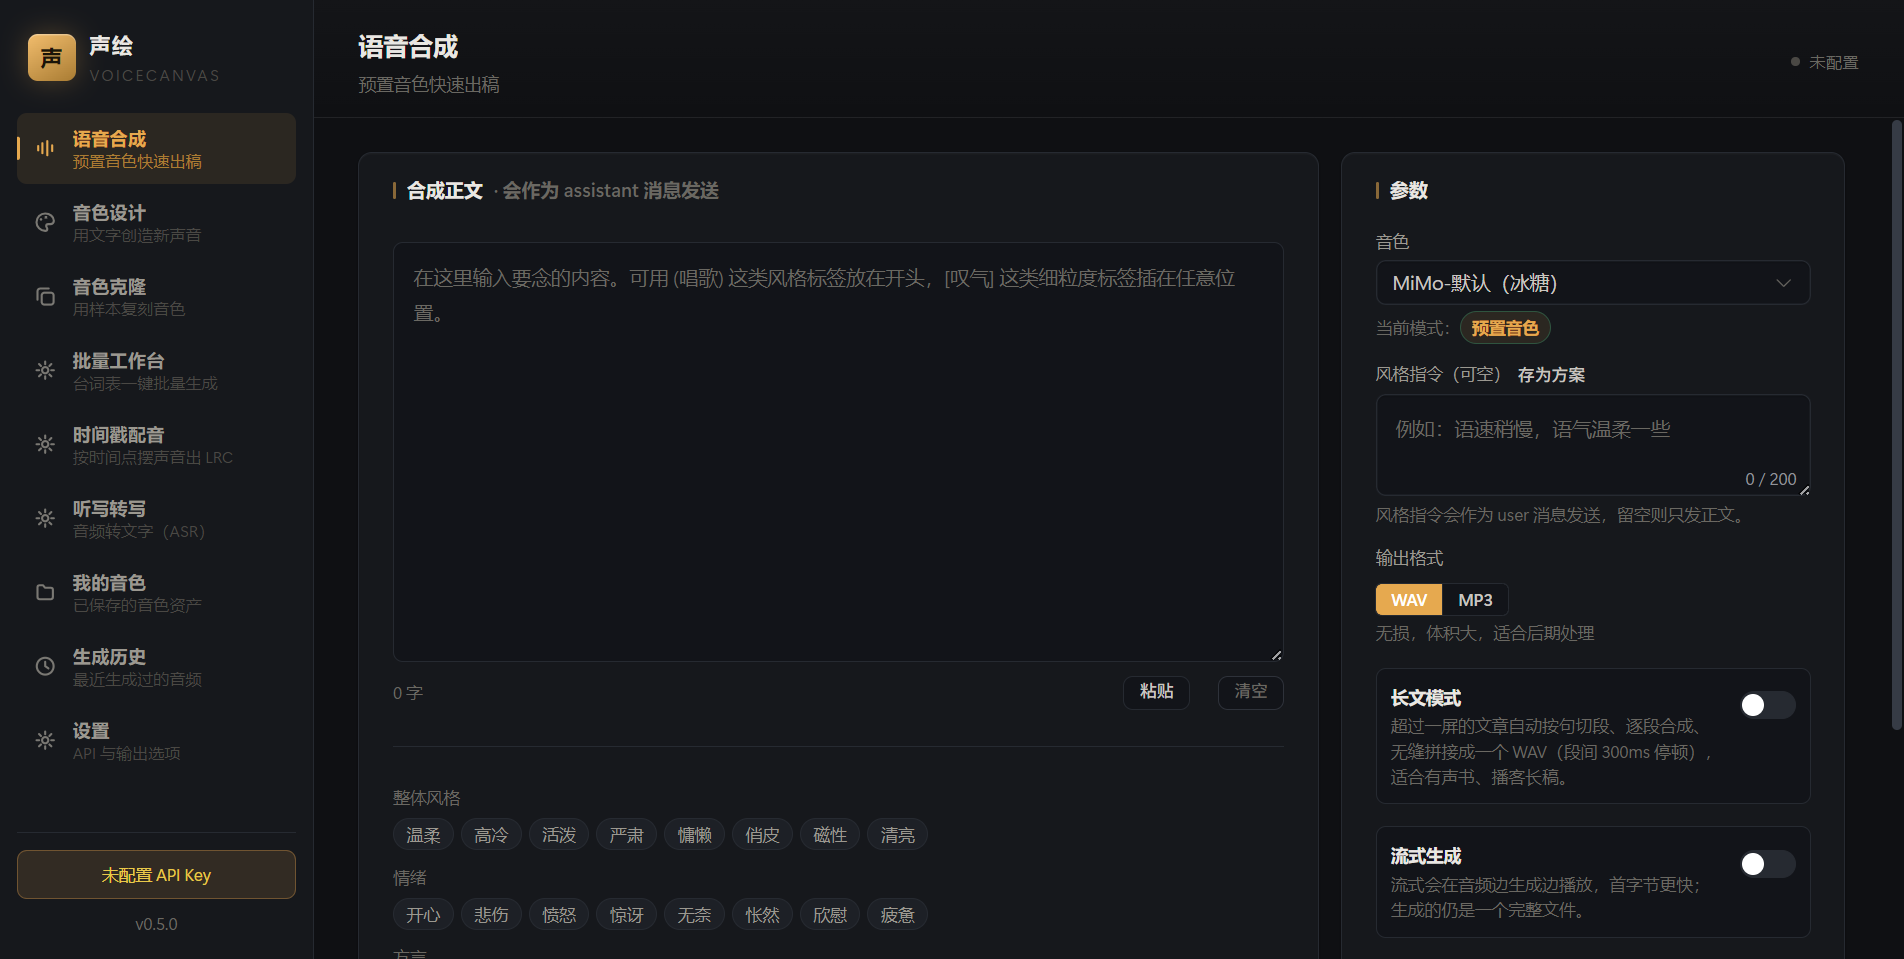
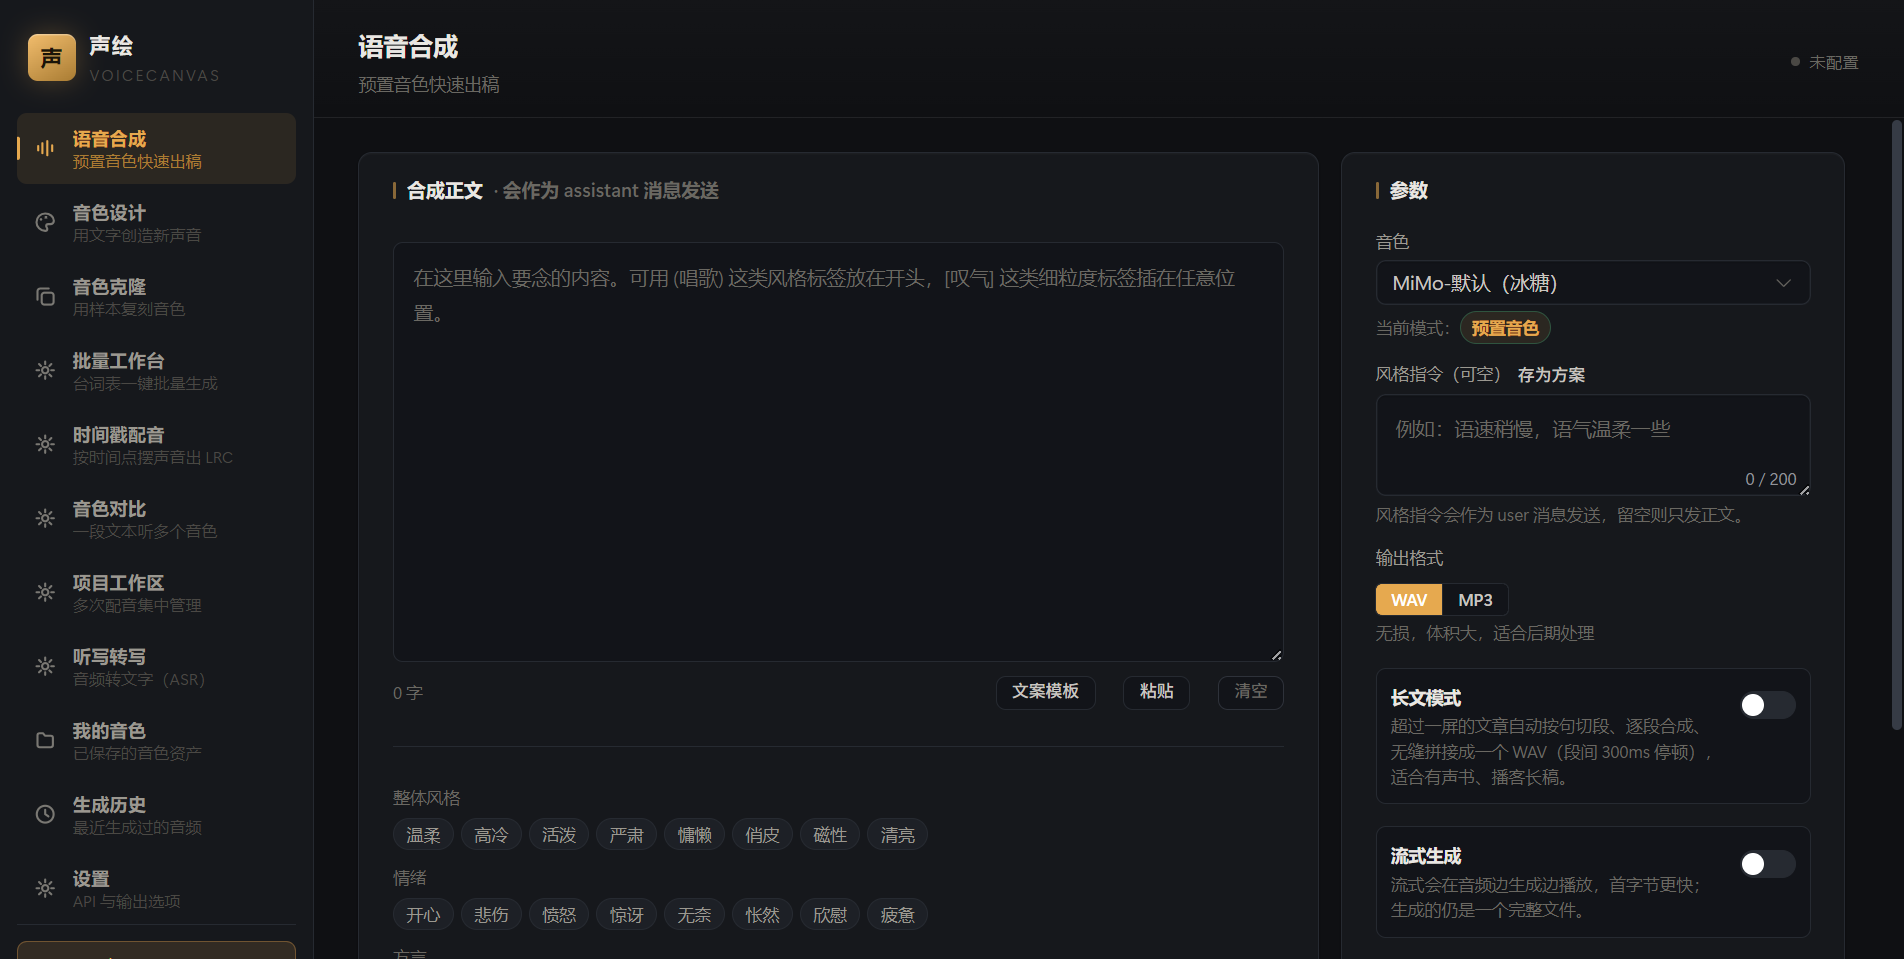
feat: 场景文案模板库（17 套，8 类场景）
与声音模板互补：声音模板解决'用什么声音'，文案模板解决'说什么'
- 覆盖广告/有声书/播客/短视频/通知/游戏/教育/情感 8 类场景
- 每条含可直接使用的文案（带风格标签）、用途说明、建议音色
- 合成页「文案模板」按钮打开，按场景分类点选即填入

diff --git a/src/shared/scripts.ts b/src/shared/scripts.ts
@@ -1,0 +1,192 @@
+/**
+ * 场景文案模板库
+ *
+ * 与「声音模板」互补：声音模板解决"用什么声音"，文案模板解决"说什么"。
+ * 每条给的是一段可以直接拿去生成的示例文本，带风格标签。
+ */
+
+export interface ScriptTemplate {
+  id: string
+  name: string
+  /** 所属场景 */
+  scene: '广告' | '有声书' | '播客' | '短视频' | '通知' | '游戏' | '教育' | '情感'
+  /** 一句话用途说明 */
+  usage: string
+  /** 可直接使用的文案（含风格标签） */
+  text: string
+  /** 建议搭配的声音风格 */
+  voiceHint: string
+}
+
+export const SCRIPT_TEMPLATES: ScriptTemplate[] = [
+  // ===== 广告 =====
+  {
+    id: 'ad-energetic',
+    name: '新品发布·热血版',
+    scene: '广告',
+    usage: '新品上市的短促有力口播',
+    text: '(兴奋 语速加快)全新一代来了！更强性能，更轻机身，续航提升百分之四十。这一次，不用再妥协。现在就下单，首发立减三百！',
+    voiceHint: '明亮有活力的青年声，语速快',
+  },
+  {
+    id: 'ad-warm',
+    name: '品牌温度·走心版',
+    scene: '广告',
+    usage: '需要情感共鸣的品牌短片',
+    text: '(温柔)有些陪伴，从来不说出口。它在清晨的一杯热水里，在深夜留的一盏灯里。二十年了，我们只做一件事——把日子过得像家。',
+    voiceHint: '温暖厚实的中年声，语速慢',
+  },
+  {
+    id: 'ad-premium',
+    name: '高端质感·克制版',
+    scene: '广告',
+    usage: '奢侈品/高端产品，靠留白和停顿',
+    text: '(深沉 语速极慢)时间，从不辜负认真的人。[停顿]每一道纹路，都是数十次打磨的结果。它不喧哗。它只是，在那里。',
+    voiceHint: '低沉磁性的男声，气声足',
+  },
+
+  // ===== 有声书 =====
+  {
+    id: 'book-narrative',
+    name: '小说叙事·第三人称',
+    scene: '有声书',
+    usage: '小说正文的常规叙述段落',
+    text: '那年的雪下得格外早。人还没备好过冬的柴，天就先冷了下来。[停顿]他站在门口，看着院子里那棵老槐树，忽然觉得有什么东西，再也回不去了。',
+    voiceHint: '沉稳的叙事男声或女声，节奏平稳',
+  },
+  {
+    id: 'book-dialogue',
+    name: '对话·双角色切换',
+    scene: '有声书',
+    usage: '一段对白，靠语气区分角色',
+    text: '(低沉 压着怒意)你到底想说什么？[停顿](轻笑 轻蔑)我没什么想说的。我只是想看看，你还能撑多久。',
+    voiceHint: '能演出情绪落差的声线',
+  },
+  {
+    id: 'book-suspense',
+    name: '悬疑·压抑逼近',
+    scene: '有声书',
+    usage: '恐怖/悬疑的紧张段落',
+    text: '(压低声线 气声)走廊尽头的灯，又灭了。[停顿]他数着自己的心跳，一步，两步……(颤抖)门把手，动了。',
+    voiceHint: '低音、气声重、有明显停顿',
+  },
+
+  // ===== 播客 =====
+  {
+    id: 'podcast-intro',
+    name: '播客开场白',
+    scene: '播客',
+    usage: '每期固定的节目开场',
+    text: '(轻松 带笑)欢迎回到《慢慢说》。今天我们不聊大道理，就聊聊那些说出来有点矫情、但憋在心里又难受的小事。泡杯茶，我们开始吧。',
+    voiceHint: '亲切自然的主播声',
+  },
+  {
+    id: 'podcast-transition',
+    name: '段落过渡',
+    scene: '播客',
+    usage: '话题切换时的自然衔接',
+    text: '(放缓 略沉吟)说到这儿，我想起另一件事。[停顿]这件事跟刚才那个看似没关系，但其实是同一个问题的两面。',
+    voiceHint: '语速中等，有思考感',
+  },
+
+  // ===== 短视频 =====
+  {
+    id: 'short-hook',
+    name: '三秒钩子',
+    scene: '短视频',
+    usage: '开头抓住注意力的强钩子',
+    text: '(语速极快 上扬)别再这样充电了！你手机电池就是这么被充坏的，九十秒讲清楚，看完记得存下来。',
+    voiceHint: '高能量、语速快、咬字清',
+  },
+  {
+    id: 'short-explainer',
+    name: '知识科普',
+    scene: '短视频',
+    usage: '中等语速的讲解',
+    text: '(平静 清晰)为什么冰块放进热水，裂开的声音不一样？[停顿]答案藏在热胀冷缩的细节里。我们分三步看。',
+    voiceHint: '清晰平稳的讲解声',
+  },
+
+  // ===== 通知 =====
+  {
+    id: 'notice-station',
+    name: '车站/机场广播',
+    scene: '通知',
+    usage: '公共场所播报',
+    text: '(标准 平稳)各位旅客请注意，开往上海虹桥方向的G7126次列车，现在开始检票。请携带好随身物品，从三号检票口有序进站。',
+    voiceHint: '标准播音腔，音量适中',
+  },
+  {
+    id: 'notice-app',
+    name: 'App 语音提示',
+    scene: '通知',
+    usage: '产品内的语音反馈',
+    text: '(轻快 简短)已为你规划好路线，全程十二公里，预计需要二十五分钟。祝你一路顺利。',
+    voiceHint: '清晰友好的中性声',
+  },
+
+  // ===== 游戏 =====
+  {
+    id: 'game-npc',
+    name: 'NPC 任务引导',
+    scene: '游戏',
+    usage: '游戏内的任务对话',
+    text: '(苍老 缓慢)年轻人，你终于来了。[停顿]北边的森林最近不太平，村民们已经三天不敢出门。若你愿意去看看，我这儿有些东西，或许用得上。',
+    voiceHint: '沧桑长者声',
+  },
+  {
+    id: 'game-boss',
+    name: 'Boss 登场台词',
+    scene: '游戏',
+    usage: '强力敌人的登场宣言',
+    text: '(低沉 压迫 回声感)你走到了这里，很好。[停顿]可惜，到此为止了。(冷笑)让我看看，你能撑过几个回合。',
+    voiceHint: '低音、有威压感',
+  },
+
+  // ===== 教育 =====
+  {
+    id: 'edu-lesson',
+    name: '课程讲解',
+    scene: '教育',
+    usage: '知识点讲解的语速示范',
+    text: '(清晰 适中)我们先看第一个概念。[停顿]这里容易混淆的地方在于，它和表面看起来的意思，恰恰相反。给大家举个例子。',
+    voiceHint: '清晰、有条理、语速中',
+  },
+  {
+    id: 'edu-encourage',
+    name: '学习鼓励',
+    scene: '教育',
+    usage: '给学生的正向反馈',
+    text: '(温和 带笑)这道题你自己做出来了，很棒。[停顿]注意看你第二步的思路，那个转折点，就是你真正理解的地方。',
+    voiceHint: '温暖鼓励的语气',
+  },
+
+  // ===== 情感 =====
+  {
+    id: 'emo-night',
+    name: '晚安电台',
+    scene: '情感',
+    usage: '睡前陪伴类内容',
+    text: '(极温柔 语速极慢)今天的你，辛苦了。[停顿]不用急着总结今天做得够不够好。此刻你只需要，把手机放下，闭上眼睛。明天的事，留给明天的你。',
+    voiceHint: '低柔、气声、语速极慢',
+  },
+  {
+    id: 'emo-letter',
+    name: '书信独白',
+    scene: '情感',
+    usage: '第一人称的信件朗读',
+    text: '(平静 略克制)见字如面。[停顿]写信这件事，我搁置了很久。不是没话说，是话太多，反而不知道从哪句开始。那就，从一句谢谢开始吧。',
+    voiceHint: '内敛克制、有呼吸感',
+  },
+]
+
+export function groupScripts(): Array<{ scene: string; items: ScriptTemplate[] }> {
+  const order = ['广告', '有声书', '播客', '短视频', '通知', '游戏', '教育', '情感']
+  const map = new Map<string, ScriptTemplate[]>()
+  for (const s of SCRIPT_TEMPLATES) {
+    const list = map.get(s.scene) || []
+    list.push(s)
+    map.set(s.scene, list)
+  }
+  return order.filter((s) => map.has(s)).map((s) => ({ scene: s, items: map.get(s)! }))
+}

diff --git a/src/renderer/src/views/SynthView.vue b/src/renderer/src/views/SynthView.vue
@@ -18,6 +18,7 @@ import { formatBytes } from '../composables/usePlayer'
 import AudioPlayer from '../components/AudioPlayer.vue'
 import AudioTagPanel from '../components/AudioTagPanel.vue'
 import { useShortcuts } from '../composables/useShortcuts'
+import { SCRIPT_TEMPLATES, groupScripts } from '../../../shared/scripts'
 
 const emit = defineEmits<{ (e: 'need-key'): void }>()
 
@@ -429,6 +430,20 @@ useShortcuts([
   },
 ])
 
+// ---------- 文案模板 ----------
+const scriptOpen = ref(false)
+const scriptGroups = groupScripts()
+const scriptScene = ref<string>(scriptGroups[0]?.scene ?? '广告')
+const scriptsOfScene = computed(
+  () => scriptGroups.find((g) => g.scene === scriptScene.value)?.items ?? [],
+)
+
+function applyScript(s: (typeof SCRIPT_TEMPLATES)[number]) {
+  text.value = s.text
+  scriptOpen.value = false
+  ElMessage.success(`已填入「${s.name}」，建议搭配：${s.voiceHint}`)
+}
+
 async function loadAssets(): Promise<void> {
   try {
     assets.value = await window.vc.voices.list()
@@ -480,6 +495,7 @@ function applyPendingVoice(): void {
             <template v-if="charCount > 0">· 约 {{ estSeconds }} 秒音频</template>
           </span>
           <span class="vc-spacer" />
+          <el-button size="small" @click="scriptOpen = true">文案模板</el-button>
           <el-button size="small" @click="pasteFromClipboard">粘贴</el-button>
           <el-button size="small" :disabled="!text" @click="clearText">清空</el-button>
         </div>
@@ -657,6 +673,40 @@ function applyPendingVoice(): void {
         <el-button @click="saveStyleOpen = false">取消</el-button>
         <el-button type="primary" @click="saveStyleNow">保存</el-button>
       </template>
+    </el-dialog>
+
+    <!-- 文案模板 -->
+    <el-dialog v-model="scriptOpen" title="场景文案模板" width="720px" top="8vh">
+      <p class="vc-hint" style="margin: 0 0 12px">
+        点一条直接填入文本框，可再手动改。文案里已经带好风格标签，配合合适的音色效果更好。
+      </p>
+      <div class="scene-tabs">
+        <button
+          v-for="g in scriptGroups"
+          :key="g.scene"
+          class="scene-tab"
+          :class="{ active: scriptScene === g.scene }"
+          @click="scriptScene = g.scene"
+        >
+          {{ g.scene }}
+        </button>
+      </div>
+
+      <div class="script-list">
+        <button
+          v-for="s in scriptsOfScene"
+          :key="s.id"
+          class="script-item"
+          @click="applyScript(s)"
+        >
+          <div class="script-top">
+            <span class="script-name">{{ s.name }}</span>
+            <span class="script-usage">{{ s.usage }}</span>
+          </div>
+          <p class="script-text">{{ s.text }}</p>
+          <div class="script-hint">建议音色：{{ s.voiceHint }}</div>
+        </button>
+      </div>
     </el-dialog>
   </div>
 </template>
@@ -923,4 +973,92 @@ function applyPendingVoice(): void {
   border: 1px solid var(--vc-border);
   border-bottom-width: 2px;
   color: var(--vc-text-secondary);
+}
+/* ---------- 文案模板对话框 ---------- */
+.scene-tabs {
+  display: flex;
+  flex-wrap: wrap;
+  gap: 6px;
+  margin-bottom: 14px;
+}
+
+.scene-tab {
+  padding: 4px 12px;
+  border-radius: 999px;
+  border: 1px solid var(--vc-border);
+  background: var(--vc-bg-elevated);
+  color: var(--vc-text-secondary);
+  font-size: 12.5px;
+  cursor: pointer;
+  font-family: inherit;
+  transition:
+    border-color var(--vc-dur-fast) var(--vc-ease),
+    color var(--vc-dur-fast) var(--vc-ease),
+    background-color var(--vc-dur-fast) var(--vc-ease);
+}
+
+.scene-tab:hover {
+  border-color: var(--vc-border-strong);
+  color: var(--vc-text-primary);
+}
+
+.scene-tab.active {
+  border-color: var(--vc-accent);
+  color: var(--vc-accent);
+  background: var(--vc-accent-soft);
+}
+
+.script-list {
+  display: flex;
+  flex-direction: column;
+  gap: 8px;
+  max-height: 56vh;
+  overflow-y: auto;
+}
+
+.script-item {
+  display: flex;
+  flex-direction: column;
+  gap: 6px;
+  text-align: left;
+  padding: 12px 14px;
+  border-radius: var(--vc-radius-sm);
+  border: 1px solid var(--vc-border);
+  background: var(--vc-bg-input);
+  color: var(--vc-text-primary);
+  font-family: inherit;
+  cursor: pointer;
+  transition: border-color var(--vc-dur-fast) var(--vc-ease);
+}
+
+.script-item:hover {
+  border-color: var(--vc-accent);
+}
+
+.script-top {
+  display: flex;
+  align-items: baseline;
+  gap: 10px;
+}
+
+.script-name {
+  font-size: 13.5px;
+  font-weight: 620;
+}
+
+.script-usage {
+  font-size: 11.5px;
+  color: var(--vc-text-muted);
+}
+
+.script-text {
+  margin: 0;
+  font-size: 12.5px;
+  line-height: 1.72;
+  color: var(--vc-text-secondary);
+}
+
+.script-hint {
+  font-size: 11.5px;
+  color: var(--vc-scope);
 }</style>
